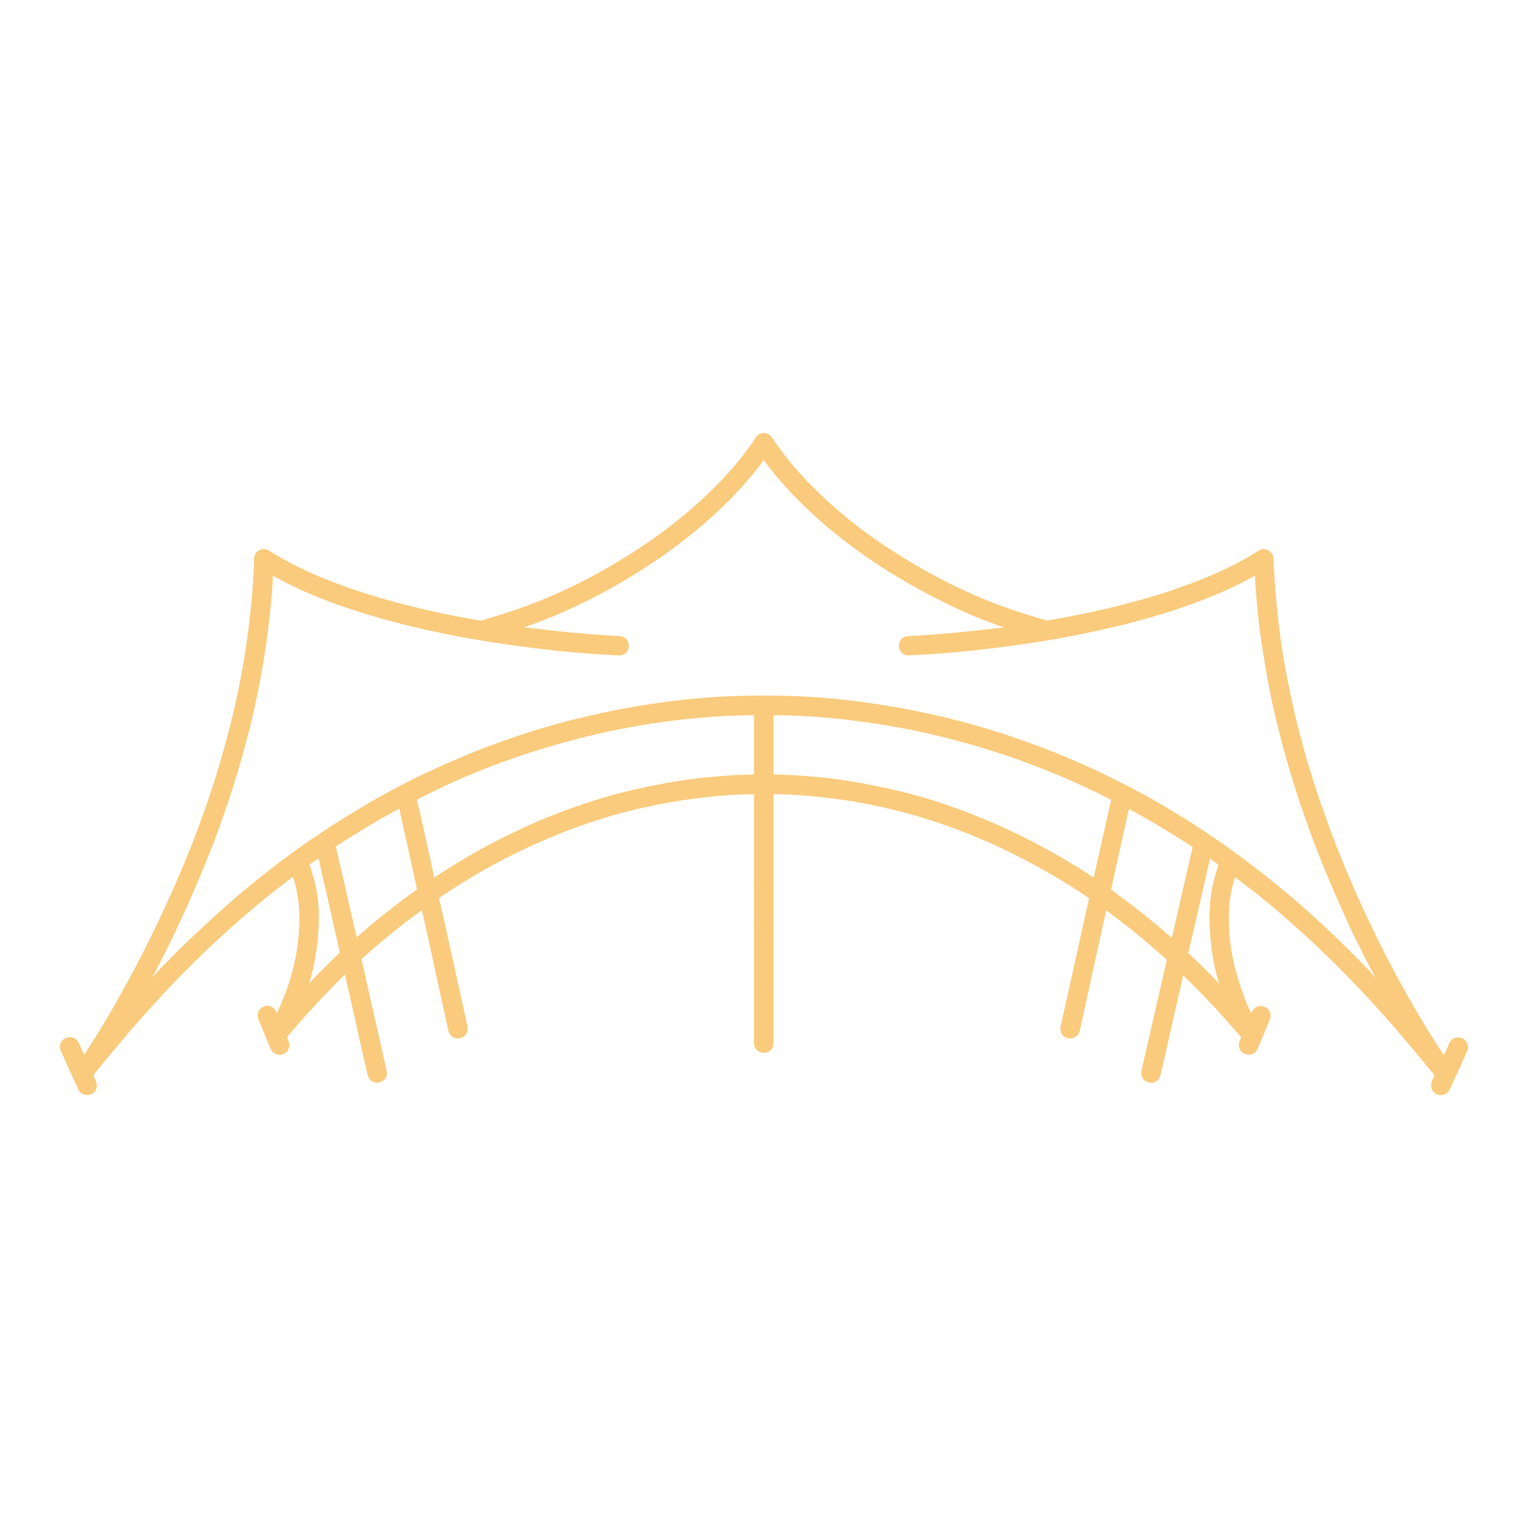
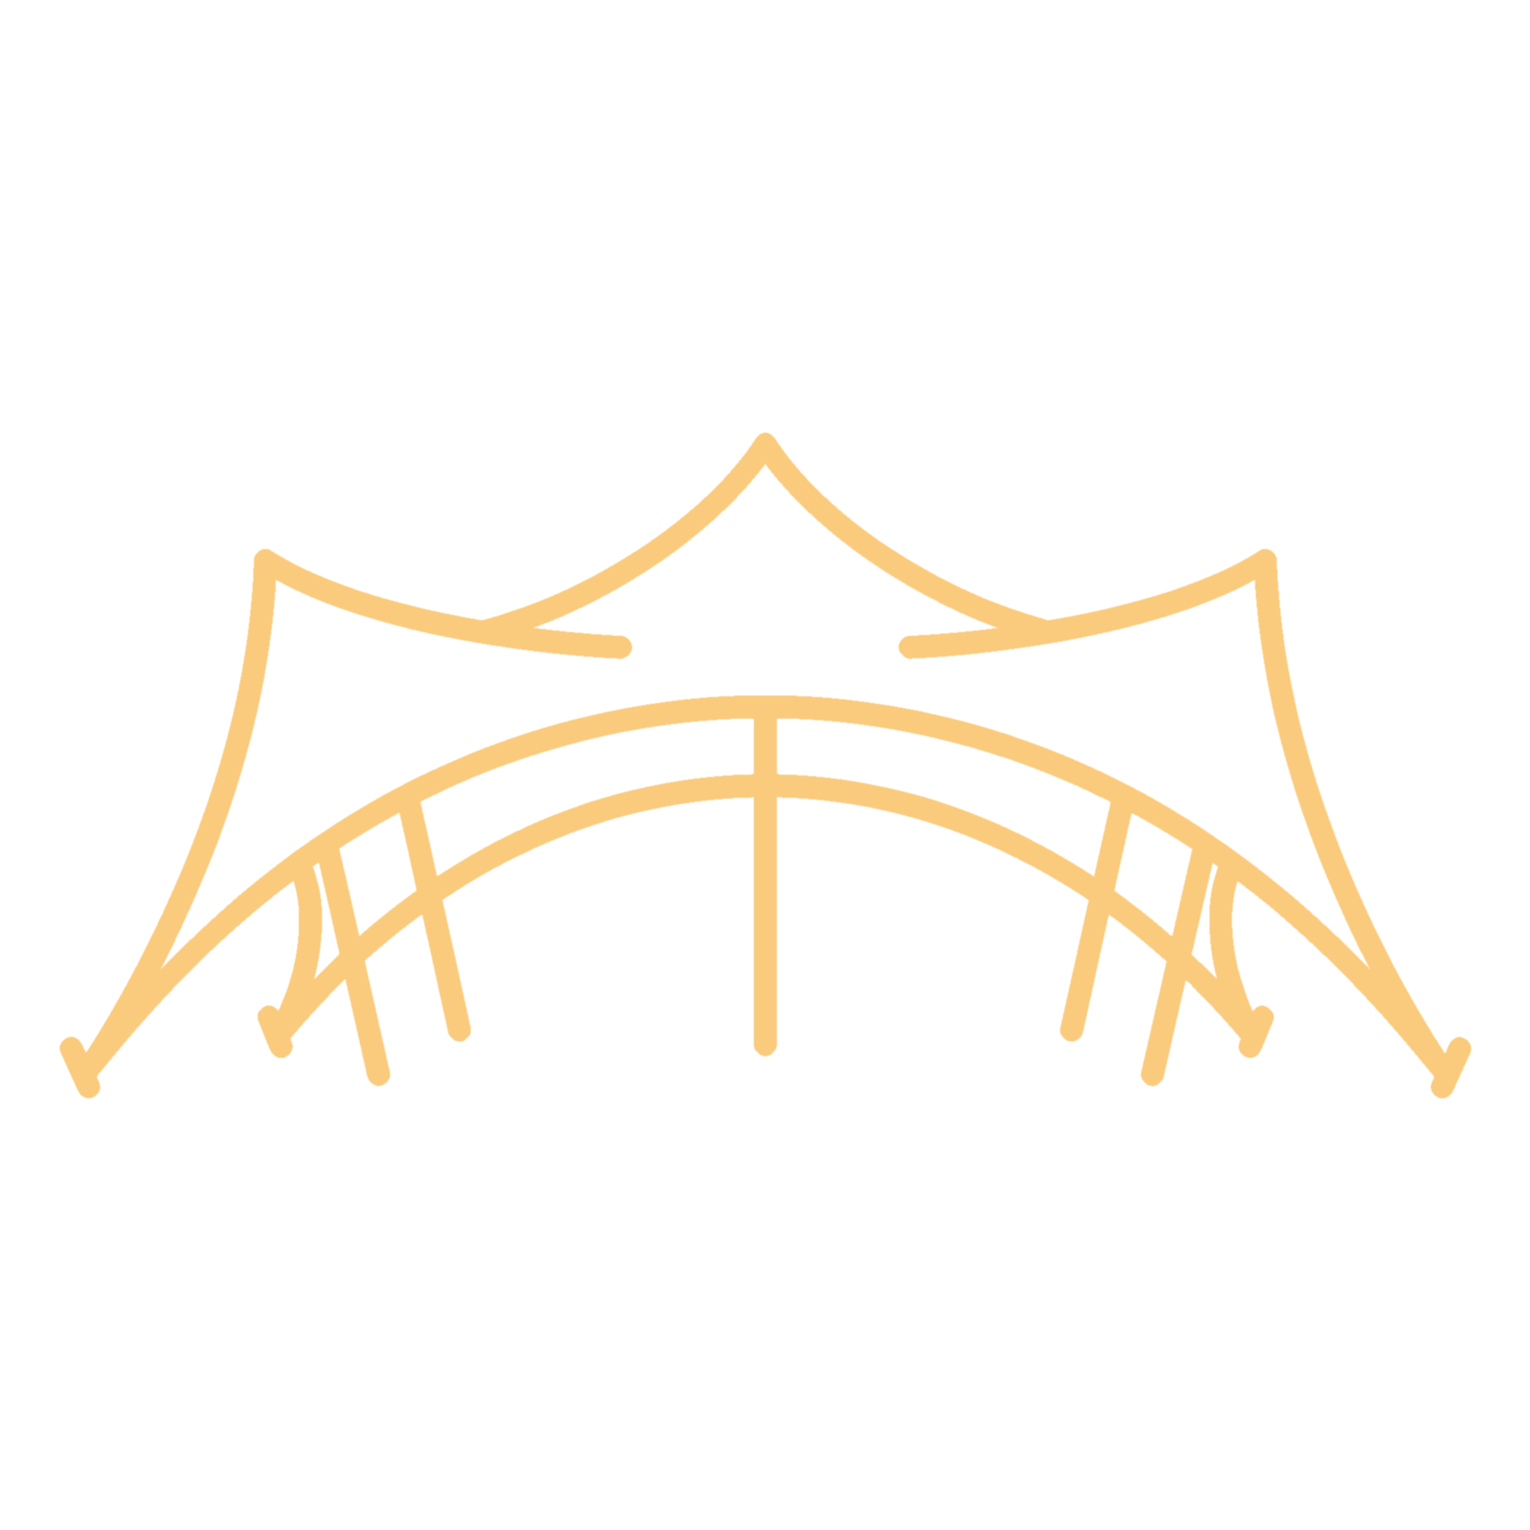
Dodanie responsywnego mobilnego menu w 2 kolumnach z animowanym wezykiem, pogrubienie piktogramu namiotow, ukrycie panelu kalibracji na GitHub Pages

diff --git a/index.html b/index.html
@@ -545,13 +545,56 @@
     }
     .icon-symbol-wrap svg circle[fill]:not([stroke]):not([fill="none"]),
     .icon-symbol-wrap svg polygon[fill]:not([stroke]):not([fill="none"]):not([fill="transparent"]),
-    .icon-symbol-wrap svg path[fill]:not([stroke]):not([fill="none"]),
-    .icon-symbol-wrap svg path[fill-rule="evenodd"] {
+    .icon-symbol-wrap svg path[fill]:not([stroke]):not([fill="none"]):not([fill-rule="evenodd"]) {
       stroke-width: 0 !important;
+    }
+    .icon-symbol-wrap svg path[fill-rule="evenodd"] {
+      stroke: currentColor !important;
+      stroke-width: 0.85px !important;
+      stroke-linejoin: round !important;
+      stroke-linecap: round !important;
     }
     .icon-symbol-wrap svg text {
       stroke: none !important;
       stroke-width: 0 !important;
+    }
+
+    /* WIDOK MOBILNY: STYLE KAFELKÓW I WĘŻYKA */
+    .mobile-node-icon-circle {
+      position: relative;
+      box-sizing: border-box;
+      background: radial-gradient(130% 130% at 30% 20%, rgba(35, 28, 20, 0.96) 0%, rgba(12, 12, 12, 0.98) 70%, rgba(3, 3, 3, 1) 100%);
+      backdrop-filter: blur(14px);
+      -webkit-backdrop-filter: blur(14px);
+      border: 1.5px solid rgba(250, 203, 125, 0.45);
+      box-shadow: 0 10px 25px -6px rgba(0, 0, 0, 0.9),
+                  0 0 20px -3px rgba(250, 203, 125, 0.2),
+                  inset 0 1px 2px 0 rgba(255, 240, 200, 0.35);
+      transition: border-color 0.35s ease, background 0.35s ease, box-shadow 0.35s ease, transform 0.25s cubic-bezier(0.2, 0.9, 0.3, 1);
+    }
+
+    .mobile-node-icon-circle .icon-symbol-wrap {
+      padding: 10px;
+    }
+    .mobile-node-icon-circle .icon-symbol-wrap svg {
+      max-width: 48px;
+      max-height: 48px;
+    }
+
+    .mobile-node-card-btn:hover .mobile-node-icon-circle,
+    .mobile-node-card-btn:active .mobile-node-icon-circle {
+      border-color: #FACB7D;
+      background: radial-gradient(130% 130% at 30% 20%, rgba(50, 38, 24, 0.98) 0%, rgba(18, 15, 12, 0.98) 70%, rgba(4, 4, 4, 1) 100%);
+      box-shadow: 0 14px 35px -6px rgba(0, 0, 0, 0.95),
+                  0 0 30px 4px rgba(250, 203, 125, 0.55),
+                  inset 0 1px 2px 0 rgba(255, 245, 215, 0.6);
+      transform: translateY(-3px) scale(1.05);
+    }
+
+    .mobile-node-card-btn:hover .icon-symbol-wrap svg,
+    .mobile-node-card-btn:active .icon-symbol-wrap svg {
+      transform: scale(1.10);
+      filter: drop-shadow(0 4px 16px rgba(0, 0, 0, 0.95)) drop-shadow(0 0 24px rgba(250, 203, 125, 0.85));
     }
 
     @media (min-width: 640px) {
@@ -1012,9 +1055,9 @@
   </header>
 
   <!-- ══════════════════════════════════════════════
-       HERO: INTERAKTYWNE MENU RADIALNE 3D V3
+       HERO: INTERAKTYWNE MENU RADIALNE 3D V3 & MOBILNY UKŁAD 2-KOLUMNOWY
   ══════════════════════════════════════════════ -->
-  <section id="hero" class="relative w-full h-screen min-h-screen flex flex-col items-center justify-center pt-20 sm:pt-24 pb-0 overflow-hidden">
+  <section id="hero" class="relative w-full min-h-screen md:h-screen flex flex-col items-center justify-start md:justify-center pt-20 sm:pt-24 pb-12 md:pb-0 overflow-visible md:overflow-hidden">
     <!-- Anchor dla linków #oferta -->
     <div id="oferta" class="absolute top-0 left-0 pointer-events-none"></div>
 
@@ -1040,9 +1083,9 @@
     <div class="absolute inset-0 bg-gradient-to-r from-transparent via-[#FACB7D]/5 to-transparent blur-[140px] pointer-events-none"></div>
 
     <!-- ══════════════════════════════════════════════
-         SCENA RADIALNA 3D (UKŁAD PODKOWY U-SHAPE V3)
+         SCENA RADIALNA 3D (UKŁAD PODKOWY U-SHAPE V3) - TYLKO DESKTOP (md+)
          ══════════════════════════════════════════════ -->
-    <div id="radial-3d-wrapper" class="w-full h-full flex-1 relative radial-scene-container cursor-grab flex items-center justify-center select-none z-10">
+    <div id="radial-3d-wrapper" class="hidden md:flex w-full h-full flex-1 relative radial-scene-container cursor-grab items-center justify-center select-none z-10">
 
       <!-- SCENA 3D (TRANSLACJA I ROTACJA STAGE'U) -->
       <div id="radial-stage" class="radial-stage-3d w-full h-full flex items-center justify-center">
@@ -1426,6 +1469,58 @@
             </button>
           </div>
         </div>
+      </div>
+
+    </div>
+
+    <!-- ══════════════════════════════════════════════
+         WIDOK MOBILNY: 2 KOLUMNY + ANIMOWANY WĘŻYK (tylko ekrany < md)
+         ══════════════════════════════════════════════ -->
+    <div id="mobile-radial-wrapper" class="flex md:hidden flex-col items-center w-full max-w-lg px-4 sm:px-6 relative z-10 py-6 sm:py-8">
+      
+      <!-- LOGOTYP NA GÓRZE Z MANIFESTEM -->
+      <div class="flex flex-col items-center justify-center text-center mb-8 select-none">
+        <img src="assets/logos/ArtBar-Solutions_svg_6.svg" alt="ArtBar Solutions" class="h-28 sm:h-36 w-auto filter drop-shadow-[0_0_25px_rgba(250,203,125,0.65)] drop-shadow-[0_0_45px_rgba(0,0,0,0.9)] brightness-110 pointer-events-none select-none">
+        <div class="mt-3 text-center flex flex-col items-center">
+          <div class="font-serif-luxury font-black tracking-[0.08em] text-[#FACB7D] uppercase leading-[1.2] text-lg sm:text-2xl drop-shadow-[0_2px_12px_rgba(0,0,0,0.95)]">
+            KOMPLEKSOWA REALIZACJA<br>STREF BAROWYCH
+          </div>
+          <p class="font-bold tracking-[0.22em] text-white/90 uppercase mt-1.5 text-xs sm:text-sm drop-shadow-[0_2px_8px_rgba(0,0,0,0.9)]">
+            JEDEN PARTNER = CAŁY EVENT
+          </p>
+        </div>
+      </div>
+
+      <!-- KONTENER 2 KOLUMN Z SIATKĄ DZIAŁÓW I ANIMOWANYM WĘŻYKIEM SVG -->
+      <div id="mobile-grid-container" class="relative w-full grid grid-cols-2 gap-x-5 sm:gap-x-10 gap-y-7 sm:gap-y-9 py-2">
+        <!-- SVG WĘŻYK: ŁĄCZY WĘZŁY S-KSZTAŁTNĄ ANIMOWANĄ PRZERYWANĄ ZŁOTĄ LINIĄ -->
+        <svg id="mobile-snake-svg" class="absolute inset-0 w-full h-full pointer-events-none overflow-visible z-0" fill="none">
+          <defs>
+            <linearGradient id="mobileSnakeGoldGrad" x1="0%" y1="0%" x2="100%" y2="100%">
+              <stop offset="0%" stop-color="#FACB7D" stop-opacity="0.95" />
+              <stop offset="50%" stop-color="#FACB7D" stop-opacity="0.5" />
+              <stop offset="100%" stop-color="#FACB7D" stop-opacity="0.95" />
+            </linearGradient>
+            <filter id="mobileGoldGlowFilter" x="-20%" y="-20%" width="140%" height="140%">
+              <feGaussianBlur stdDeviation="3.5" result="blur" />
+              <feComposite in="SourceGraphic" in2="blur" operator="over" />
+            </filter>
+          </defs>
+          <!-- Ciągła subtelna szyna bazowa pod spodem -->
+          <path id="mobile-snake-base" d="" stroke="rgba(250, 203, 125, 0.22)" stroke-width="2" stroke-linecap="round" fill="none" />
+          <!-- Animowana przerywana złota linia z poświatą -->
+          <path id="mobile-snake-dash" d="" stroke="url(#mobileSnakeGoldGrad)" stroke-width="2.5" class="orbit-style-animated" filter="url(#mobileGoldGlowFilter)" stroke-linecap="round" fill="none" />
+        </svg>
+
+        <!-- KAFELKI 8 DZIAŁÓW ZOSTANĄ WYGENEROWANE DYNAMICZNIE PRZEZ initMobileNodes() -->
+      </div>
+
+      <!-- Delikatny wskaźnik przewijania na dole sekcji mobilnej -->
+      <div class="mt-8 flex flex-col items-center opacity-60">
+        <span class="text-[9px] uppercase tracking-[0.25em] text-[#FACB7D]/70 font-semibold mb-1">Przewiń w dół</span>
+        <svg class="w-4 h-4 text-[#FACB7D] animate-bounce" fill="none" stroke="currentColor" viewBox="0 0 24 24">
+          <path stroke-linecap="round" stroke-linejoin="round" stroke-width="2" d="M19 14l-7 7m0 0l-7-7m7 7V3"/>
+        </svg>
       </div>
 
     </div>
@@ -2644,7 +2739,7 @@
         badge: 'Profesjonalne Zadaszenia i Hale Namiotowe',
         lead: 'Kompleksowe zadaszenia eventowe: od designerskich namiotów gwiazda i stretch po całoroczne hale namiotowe. Zapewniamy pełne bezpieczeństwo stref barowych, podłogi modułowe oraz odporność na skrajne warunki atmosferyczne.',
         iconSvg: `
-          <svg viewBox="0 0 64 64" fill="currentColor" fill-rule="evenodd" xmlns="http://www.w3.org/2000/svg" class="w-10 h-10 text-[#FACB7D]">
+          <svg viewBox="0 0 64 64" fill="currentColor" stroke="currentColor" stroke-width="0.85" stroke-linejoin="round" stroke-linecap="round" fill-rule="evenodd" xmlns="http://www.w3.org/2000/svg" class="w-10 h-10 text-[#FACB7D]">
             <path d="M 31.89 19.33 L 32.26 19.42 L 33.23 20.68 L 34.44 21.92 L 35.64 22.93 L 36.73 23.70 L 38.39 24.70 L 39.71 25.36 L 41.08 25.93 L 42.86 26.50 L 45.15 26.05 L 47.07 25.53 L 49.25 24.73 L 51.02 23.79 L 51.22 23.77 L 51.42 23.86 L 51.54 24.12 L 51.84 27.42 L 52.36 30.11 L 53.11 32.77 L 54.08 35.47 L 55.80 39.25 L 56.97 41.40 L 58.04 43.12 L 58.09 43.14 L 58.30 42.69 L 58.50 42.51 L 58.82 42.54 L 58.99 42.77 L 58.97 43.03 L 58.24 44.58 L 57.98 44.70 L 57.70 44.60 L 57.59 44.32 L 57.70 43.92 L 55.21 41.02 L 52.54 38.38 L 50.08 36.36 L 49.90 37.04 L 49.83 37.93 L 49.89 38.93 L 50.07 39.85 L 50.67 41.54 L 50.88 41.33 L 51.08 41.29 L 51.31 41.38 L 51.43 41.63 L 50.98 42.83 L 50.74 43.12 L 50.54 43.15 L 50.34 43.05 L 50.22 42.83 L 50.28 42.46 L 48.10 40.13 L 47.19 44.00 L 46.95 44.21 L 46.67 44.19 L 46.49 43.98 L 46.48 43.75 L 47.45 39.53 L 45.84 38.15 L 45.12 37.65 L 44.10 42.28 L 43.92 42.49 L 43.57 42.49 L 43.40 42.31 L 43.37 42.11 L 44.46 37.15 L 41.68 35.51 L 40.14 34.80 L 38.50 34.20 L 35.52 33.46 L 33.75 33.23 L 32.40 33.16 L 32.37 42.71 L 32.17 43.04 L 31.80 43.03 L 31.62 42.74 L 31.62 33.20 L 30.71 33.19 L 27.90 33.57 L 26.33 33.94 L 24.90 34.40 L 21.97 35.68 L 19.57 37.13 L 20.64 42.08 L 20.61 42.31 L 20.43 42.50 L 20.11 42.49 L 19.90 42.26 L 18.89 37.64 L 17.76 38.47 L 16.57 39.51 L 17.54 43.77 L 17.52 44.00 L 17.33 44.19 L 16.99 44.18 L 16.81 43.95 L 15.93 40.09 L 13.73 42.46 L 13.80 42.80 L 13.69 43.05 L 13.35 43.15 L 13.05 42.86 L 12.60 41.57 L 12.72 41.36 L 12.95 41.27 L 13.15 41.33 L 13.32 41.54 L 13.96 39.82 L 14.13 38.85 L 14.19 37.82 L 14.10 36.96 L 13.92 36.35 L 11.80 38.07 L 9.76 39.99 L 7.98 41.91 L 6.30 43.92 L 6.42 44.32 L 6.33 44.57 L 6.07 44.70 L 5.80 44.61 L 5.03 43.00 L 5.03 42.71 L 5.24 42.51 L 5.53 42.51 L 5.96 43.12 L 6.97 41.48 L 8.17 39.28 L 10.01 35.24 L 10.95 32.60 L 11.73 29.74 L 12.15 27.44 L 12.45 24.09 L 12.57 23.86 L 12.75 23.77 L 12.98 23.80 L 14.81 24.76 L 16.84 25.51 L 18.96 26.08 L 21.17 26.50 L 22.83 25.96 L 24.24 25.39 L 25.87 24.56 L 27.27 23.70 L 28.50 22.81 L 29.68 21.81 L 30.75 20.71 L 31.89 19.33 Z M 32.00 20.36 L 30.25 22.30 L 28.22 23.96 L 25.64 25.53 L 24.15 26.25 L 22.83 26.76 L 26.59 27.12 L 26.77 27.27 L 26.82 27.47 L 26.76 27.67 L 26.56 27.83 L 22.78 27.51 L 18.88 26.82 L 15.44 25.82 L 13.18 24.79 L 13.01 26.67 L 12.70 28.73 L 11.84 32.26 L 10.49 36.04 L 8.59 40.13 L 11.49 37.35 L 13.92 35.40 L 16.87 33.48 L 19.37 32.20 L 22.55 30.93 L 25.55 30.10 L 28.76 29.56 L 32.09 29.38 L 35.21 29.55 L 38.45 30.10 L 41.51 30.96 L 44.75 32.25 L 47.41 33.66 L 50.22 35.52 L 52.71 37.52 L 55.41 40.14 L 53.54 36.13 L 52.19 32.34 L 51.33 28.85 L 51.01 26.84 L 50.82 24.79 L 49.62 25.39 L 48.33 25.90 L 45.12 26.82 L 41.22 27.51 L 37.44 27.83 L 37.24 27.67 L 37.17 27.47 L 37.23 27.27 L 37.41 27.12 L 41.17 26.76 L 38.53 25.62 L 35.78 23.96 L 33.82 22.37 L 32.88 21.43 L 32.00 20.36 Z M 31.28 30.14 L 28.36 30.36 L 25.15 30.96 L 21.66 32.05 L 18.76 33.33 L 18.70 33.40 L 19.35 36.33 L 22.52 34.57 L 25.53 33.39 L 26.99 33.00 L 28.73 32.65 L 31.60 32.41 L 31.62 30.17 L 31.28 30.14 Z M 32.40 30.13 L 32.38 32.40 L 35.24 32.65 L 36.87 32.97 L 38.47 33.40 L 41.54 34.60 L 44.66 36.33 L 45.31 33.40 L 45.01 33.22 L 41.94 31.90 L 38.82 30.96 L 35.61 30.36 L 32.40 30.13 Z M 17.96 33.75 L 15.59 35.18 L 16.42 38.63 L 18.69 36.81 L 18.03 33.75 L 17.96 33.75 Z M 46.01 33.74 L 45.32 36.81 L 47.64 38.66 L 48.44 35.21 L 46.01 33.74 Z M 14.90 35.64 L 14.58 35.87 L 14.85 36.84 L 14.94 37.93 L 14.85 39.13 L 14.58 40.39 L 15.74 39.22 L 14.90 35.64 Z M 49.10 35.66 L 48.28 39.25 L 49.45 40.41 L 49.18 39.19 L 49.09 37.96 L 49.15 36.96 L 49.43 35.87 L 49.10 35.66 Z" />
           </svg>
         `,
@@ -3088,6 +3183,12 @@
 
     // Pętla renderowania sceny 3D (60/120 FPS requestAnimationFrame)
     function renderLoop() {
+      // Na urządzeniach mobilnych (< 768px) scena 3D jest ukryta — oszczędzamy zasoby baterii i GPU
+      if (window.innerWidth < 768) {
+        requestAnimationFrame(renderLoop);
+        return;
+      }
+
       // Płynna, ciągła interpolacja zoomu kamery
       const zoomDiff = targetCameraZoom - cameraZoom;
       if (Math.abs(zoomDiff) > 0.0005) {
@@ -3172,6 +3273,9 @@
     // Inicjalizacja resize
     window.addEventListener('resize', () => {
       updateDimensions();
+      if (window.innerWidth < 768) {
+        updateMobileSnakePath();
+      }
     });
 
     // ════════════════════════════════════════════════════════════
@@ -3325,11 +3429,19 @@
     // Inicjalizacja
     window.addEventListener('resize', () => {
       updateDimensions();
+      if (window.innerWidth < 768) {
+        updateMobileSnakePath();
+      }
     });
 
     // ══════════════════════════════════════════════════
     // OBSŁUGA INTERAKTYWNEGO STUDIA KALIBRACJI WYGLĄDU 3D
     // ══════════════════════════════════════════════════
+    const tuningDock = document.getElementById('tuning-dock');
+    if (tuningDock && window.location.hostname.includes('github.io') && !new URLSearchParams(window.location.search).has('tune')) {
+      tuningDock.style.display = 'none';
+    }
+
     const tuneToggleBtn = document.getElementById('tune-toggle-btn');
     const tuneCloseBtn = document.getElementById('tune-close-btn');
     const tunePanel = document.getElementById('tune-panel');
@@ -3807,7 +3919,109 @@
       });
     }
 
+    // ════════════════════════════════════════════════════════════
+    // WIDOK MOBILNY: GENEROWANIE 8 DZIAŁÓW (2 KOLUMNY) I ANIMOWANY WĘŻYK
+    // ════════════════════════════════════════════════════════════
+    function updateMobileSnakePath() {
+      const grid = document.getElementById('mobile-grid-container');
+      const svgBase = document.getElementById('mobile-snake-base');
+      const svgDash = document.getElementById('mobile-snake-dash');
+      if (!grid || !svgBase || !svgDash) return;
+
+      const cards = grid.querySelectorAll('.mobile-node-card-btn');
+      if (cards.length < 8) return;
+
+      const gridRect = grid.getBoundingClientRect();
+      if (gridRect.width === 0 || gridRect.height === 0) return;
+
+      const pts = [];
+      cards.forEach(card => {
+        const iconCircle = card.querySelector('.mobile-node-icon-circle');
+        const r = (iconCircle || card).getBoundingClientRect();
+        pts.push({
+          x: r.left + r.width / 2 - gridRect.left,
+          y: r.top + r.height / 2 - gridRect.top
+        });
+      });
+
+      // Obliczenie proporcjonalnego zaokrąglenia łuków U-kształtnych ("wężyka")
+      const colDistance = Math.abs(pts[1].x - pts[0].x);
+      const rightMargin = gridRect.width - pts[1].x;
+      const leftMargin = pts[0].x;
+      const safeMargin = Math.min(rightMargin, leftMargin);
+      const bulge = Math.max(26, Math.min(65, safeMargin > 10 ? safeMargin * 0.82 : colDistance * 0.28));
+
+      // Kolejność wężyka (S-Curve) łącząca 8 działów w 4 rzędach:
+      // Rząd 0: 0 (ART) -> 1 (BAR)
+      // Łuk prawy do rzędu 1: 3 (TECHNIKA) -> 2 (OBSŁUGA)
+      // Łuk lewy do rzędu 2: 4 (LOGISTYKA) -> 5 (NAMIOTY)
+      // Łuk prawy do rzędu 3: 7 (PRODUKCJA) -> 6 (FABRYKA LODU)
+      const p0 = pts[0], p1 = pts[1];
+      const p3 = pts[3], p2 = pts[2];
+      const p4 = pts[4], p5 = pts[5];
+      const p7 = pts[7], p6 = pts[6];
+
+      const d = [
+        `M ${p0.x.toFixed(1)},${p0.y.toFixed(1)} L ${p1.x.toFixed(1)},${p1.y.toFixed(1)}`,
+        `C ${(p1.x + bulge).toFixed(1)},${p1.y.toFixed(1)} ${(p3.x + bulge).toFixed(1)},${p3.y.toFixed(1)} ${p3.x.toFixed(1)},${p3.y.toFixed(1)}`,
+        `L ${p2.x.toFixed(1)},${p2.y.toFixed(1)}`,
+        `C ${(p2.x - bulge).toFixed(1)},${p2.y.toFixed(1)} ${(p4.x - bulge).toFixed(1)},${p4.y.toFixed(1)} ${p4.x.toFixed(1)},${p4.y.toFixed(1)}`,
+        `L ${p5.x.toFixed(1)},${p5.y.toFixed(1)}`,
+        `C ${(p5.x + bulge).toFixed(1)},${p5.y.toFixed(1)} ${(p7.x + bulge).toFixed(1)},${p7.y.toFixed(1)} ${p7.x.toFixed(1)},${p7.y.toFixed(1)}`,
+        `L ${p6.x.toFixed(1)},${p6.y.toFixed(1)}`
+      ].join(' ');
+
+      svgBase.setAttribute('d', d);
+      svgDash.setAttribute('d', d);
+    }
+
+    function initMobileNodes() {
+      const grid = document.getElementById('mobile-grid-container');
+      if (!grid) return;
+
+      const existingCards = grid.querySelectorAll('.mobile-node-card-btn');
+      existingCards.forEach(c => c.remove());
+
+      DEPARTMENTS.forEach((dept, idx) => {
+        const btn = document.createElement('button');
+        btn.type = 'button';
+        btn.className = 'mobile-node-card-btn group relative flex flex-col items-center text-center cursor-pointer select-none focus:outline-none';
+        btn.setAttribute('data-index', idx);
+        btn.setAttribute('data-id', dept.id);
+        btn.setAttribute('aria-label', dept.title);
+
+        btn.innerHTML = `
+          <div class="mobile-node-icon-circle w-20 h-20 sm:w-24 sm:h-24 rounded-2xl sm:rounded-3xl flex items-center justify-center p-3 sm:p-4 z-10">
+            <div class="icon-symbol-wrap w-full h-full flex items-center justify-center">
+              ${dept.iconSvg}
+            </div>
+          </div>
+          <div class="mt-2.5 flex flex-col items-center z-10">
+            <h3 class="font-serif-luxury text-sm sm:text-base font-black text-white group-hover:text-[#FACB7D] tracking-wider uppercase leading-tight drop-shadow-[0_2px_10px_rgba(0,0,0,0.95)] transition-colors">
+              ${dept.title}
+            </h3>
+            <p class="text-[8px] sm:text-[9.5px] text-[#FACB7D] font-bold tracking-[0.16em] uppercase mt-0.5 leading-tight drop-shadow-[0_2px_8px_rgba(0,0,0,0.9)] max-w-[140px] sm:max-w-[170px]">
+              ${dept.subtitle}
+            </p>
+          </div>
+        `;
+
+        btn.addEventListener('click', () => {
+          openDeptModal(idx);
+        });
+
+        grid.appendChild(btn);
+      });
+
+      requestAnimationFrame(() => {
+        updateMobileSnakePath();
+        setTimeout(updateMobileSnakePath, 150);
+        setTimeout(updateMobileSnakePath, 600);
+      });
+    }
+
     init3DNodes();
+    initMobileNodes();
     updateDimensions();
     renderLoop();
 
@@ -3901,6 +4115,7 @@
         preloader.classList.add('preloader-hidden');
         setTimeout(() => {
           preloader.style.display = 'none';
+          if (window.innerWidth < 768) updateMobileSnakePath();
         }, 750);
       }
     }
